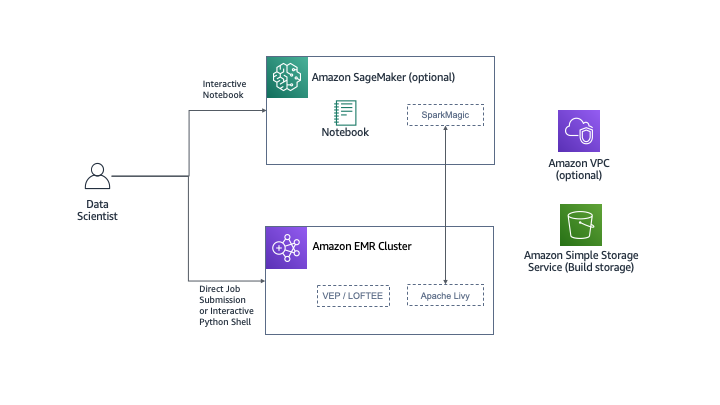
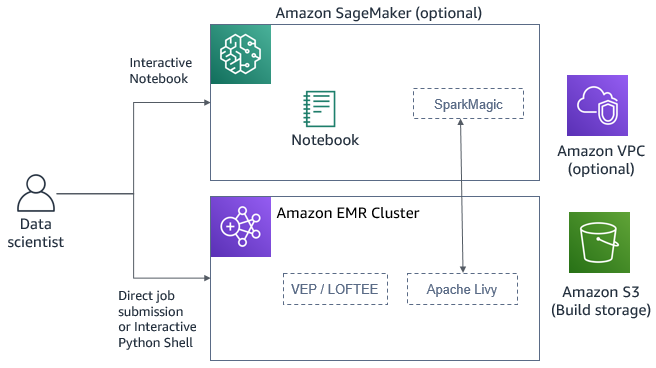
New edits
Replaced diagrams and edited text

diff --git a/readme.md b/readme.md
@@ -4,11 +4,11 @@ This solution was designed to provide a reproducible, easy to deploy environment
 
 ![emr-hail_1](docs/images/emr-hail.png)
 
-To integrate Hail and EMR, we leverage [Packer](https://www.packer.io/) from HashiCorp alongside [AWS CodeBuild](https://aws.amazon.com/codebuild/faqs/?nc=sn&loc=5) to create a custom AMI pre-packaged with Hail, and optionally containing the [Variant Effect Predictor (VEP)](https://uswest.ensembl.org/info/docs/tools/vep/index.html).  Then, an EMR cluster is launched using this custom AMI.
+To integrate Hail and EMR, we leverage [Packer](https://www.packer.io/) from HashiCorp alongside [AWS CodeBuild](https://aws.amazon.com/codebuild/faqs/?nc=sn&loc=5) to create a custom AMI pre-packaged with Hail, and optionally containing the [Variant Effect Predictor (VEP)](https://uswest.ensembl.org/info/docs/tools/vep/index.html). Then, an EMR cluster is launched using this custom AMI.
 
-Users leverage an AWS SageMaker Notebook Instance to run JupyterLab, and pass commands to Hail from the notebook via [Apache Livy](https://livy.incubator.apache.org/).
+Users leverage an AWS SageMaker Notebook instance to run JupyterLab, and pass commands to Hail from the Notebook via [Apache Livy](https://livy.incubator.apache.org/).
 
-This repository contains an AWS quickstart solution for rapid deployment into your AWS account. Certain parts of this repository assume a working knowledge of:  AWS, CloudFormation, S3, EMR, Hail, Jupyter, SageMaker, EC2, Packer, and shell scripting.
+This repository contains an AWS Quick Start solution for rapid deployment into your AWS account. Certain parts of this repository assume a working knowledge of AWS, CloudFormation, S3, EMR, Hail, Jupyter, SageMaker, EC2, Packer, and shell scripting.
 
 The core directories in this repository are:
 
@@ -45,15 +45,15 @@ To deploy Hail on EMR, follow these steps:
 
 2. Create a new stack using the following S3 URL as a template source - [https://privo-hail.s3.amazonaws.com/quickstart-hail/templates/hail-master.template.yaml](https://privo-hail.s3.amazonaws.com/quickstart-hail/templates/hail-master.template.yaml)
 
-3. Set parameters based on your environment and select `Next`.
+3. Set parameters based on your environment and choose *Next*.
 
-4. Optionally configure stack options and select `Next`.
+4. Optionally configure stack options and choose *Next*.
 
-5. Review your settings and acknowledge the stack capabilities.  Click `Create Stack`.
+5. Review your settings and acknowledge the stack capabilities. Choose *Create Stack*.
 
     ![cloudformation-capabilities](docs/images/deployment/cloudformation-capabilities.png)
 
-6. Once stack creation is complete select the root stack and open the `Outputs` tab.  Locate and click the Service Catalog Portfolio URL.
+6. Once stack creation is complete, select the root stack and open the *Outputs* tab.  Locate and choose the Service Catalog Portfolio URL.
 
     ![cloudformation-primary-stack-outputs](docs/images/deployment/cloudformation-primary-stack-outputs.png)
 
@@ -89,15 +89,15 @@ To deploy Hail on EMR, follow these steps:
 
 The Service Catalog product for the Hail EMR cluster will deploy a single master node, a minimum of 1 core node, and optional autoscaling task nodes.
 
-The [AWS Systems Manager Agent](https://docs.aws.amazon.com/systems-manager/latest/userguide/ssm-agent.html) (SSM) can be used to gain ingress to the EMR nodes.  This agent is pre-installed on the AMI.  To allow SageMaker notebook instance to connect to the Hail cluster nodes, set the following parameter to `true`.
+The [AWS Systems Manager Agent](https://docs.aws.amazon.com/systems-manager/latest/userguide/ssm-agent.html) (SSM) can be used to gain ingress to the EMR nodes. This agent is pre-installed on the AMI. To allow SageMaker Notebook instance to connect to the Hail cluster nodes, set the following parameter to *true*.
 
 ![emr-ssm](docs/images/overview/emr-ssm.png)
 
-Notebook service catalog deployments will also require a parameter adjustment to complete access.
+Notebook service catalog deployments also require a parameter adjustment to complete access.
 
 ### Autoscaling Task Nodes
 
-Task nodes can be set to `0` to omit them.   The target market, `SPOT` or `ON_DEMAND`, is also set via parameters.  If `SPOT` is selected, the bid price is set to the current on demand price of the selected instance type.
+Task nodes can be set to 0 to omit them.  The target market, *SPOT* or *ON_DEMAND*, is also set through parameters.  If *SPOT* is selected, the bid price is set to the current on-demand price of the selected instance type.
 
 The following scaling actions are set by default:
 
@@ -107,11 +107,11 @@ The following scaling actions are set by default:
 
 ## SageMaker Notebook Overview
 
-The Service Catalog product for the SageMaker Notebook Instance deploys a single notebook instance in the same subnet as your EMR cluster.  Upon launch, several example notebooks are seeded into the `common-notebooks` folder.  These example notebooks offer an immediate orentation interacting with your Hail EMR Cluster.
+The Service Catalog product for the SageMaker Notebook instance deploys a single Notebook instance in the same subnet as your EMR cluster.  Upon launch, several example Notebooks are seeded into the *common-notebooks* folder.  These example notebooks offer an immediate orientation interacting with your Hail EMR cluster.
 
 ### SSM Access
 
-CloudFormation parameters exist on both the EMR Cluster and SageMaker notebook products to optionally allow notebook instances shell access via SSM.  Set the following parameter to `true` on when deploying your notebook product to allow SSM access.
+CloudFormation parameters exist on both the EMR Cluster and SageMaker Notebook products to optionally allow Notebook instances shell access through SSM.  Set the following parameter to *true* on when deploying your notebook product to allow SSM access.
 
 ![sagemaker-ssm](docs/images/overview/sagemaker-ssm.png)
 
